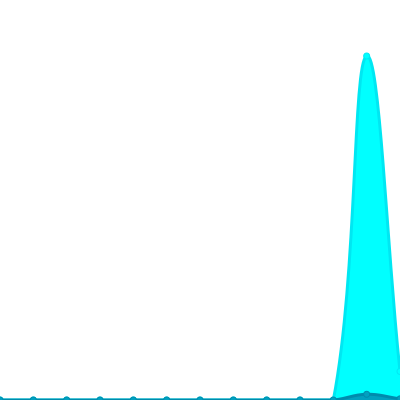
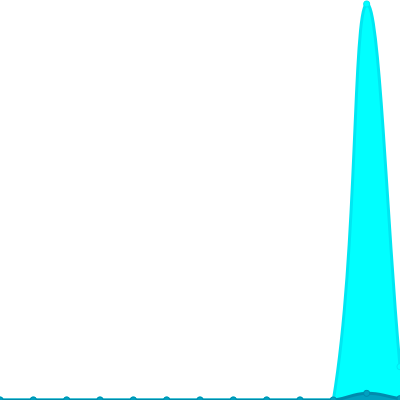
Update views

diff --git a/readme/1004317952/year.md b/readme/1004317952/year.md
@@ -37,7 +37,7 @@
 			<code>5</code>
 		</td>
 		<td>
-			<code>301</code>
+			<code>297</code>
 		</td>
 	</tr>
 	<tr>
@@ -164,7 +164,7 @@
 </table>
 
 </details>
-<small><i>Last updated on 2025/7/10 3:42 AM UTC</i></small>
+<small><i>Last updated on 2025/7/10 6:56 AM UTC</i></small>
 
 ## ✂Copy and 📋 Paste
 ### SVG Badge

diff --git a/README.md b/README.md
@@ -53,7 +53,7 @@ The project created and maintained by [gayanvoice](https://github.com/gayanvoice
 	</tr>
 </table>
 
-<small><i>Last updated on 2025/7/10 3:43 AM UTC</i></small>
+<small><i>Last updated on 2025/7/10 6:56 AM UTC</i></small>
 
 ## ✂Copy and 📋 Paste
 ### Total Views Badge

diff --git a/readme/1007614537/year.md b/readme/1007614537/year.md
@@ -164,7 +164,7 @@
 </table>
 
 </details>
-<small><i>Last updated on 2025/7/10 3:42 AM UTC</i></small>
+<small><i>Last updated on 2025/7/10 6:56 AM UTC</i></small>
 
 ## ✂Copy and 📋 Paste
 ### SVG Badge
